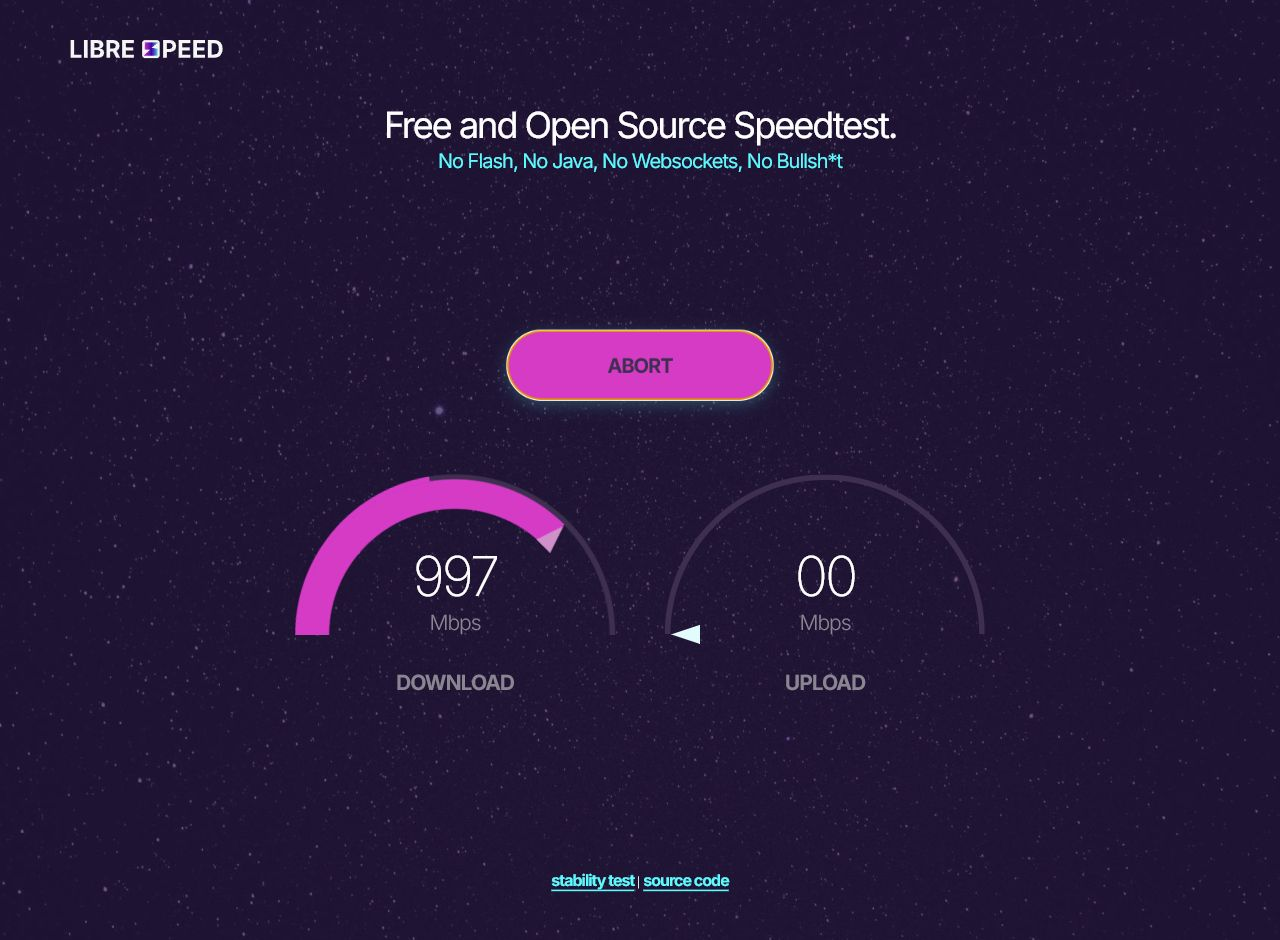
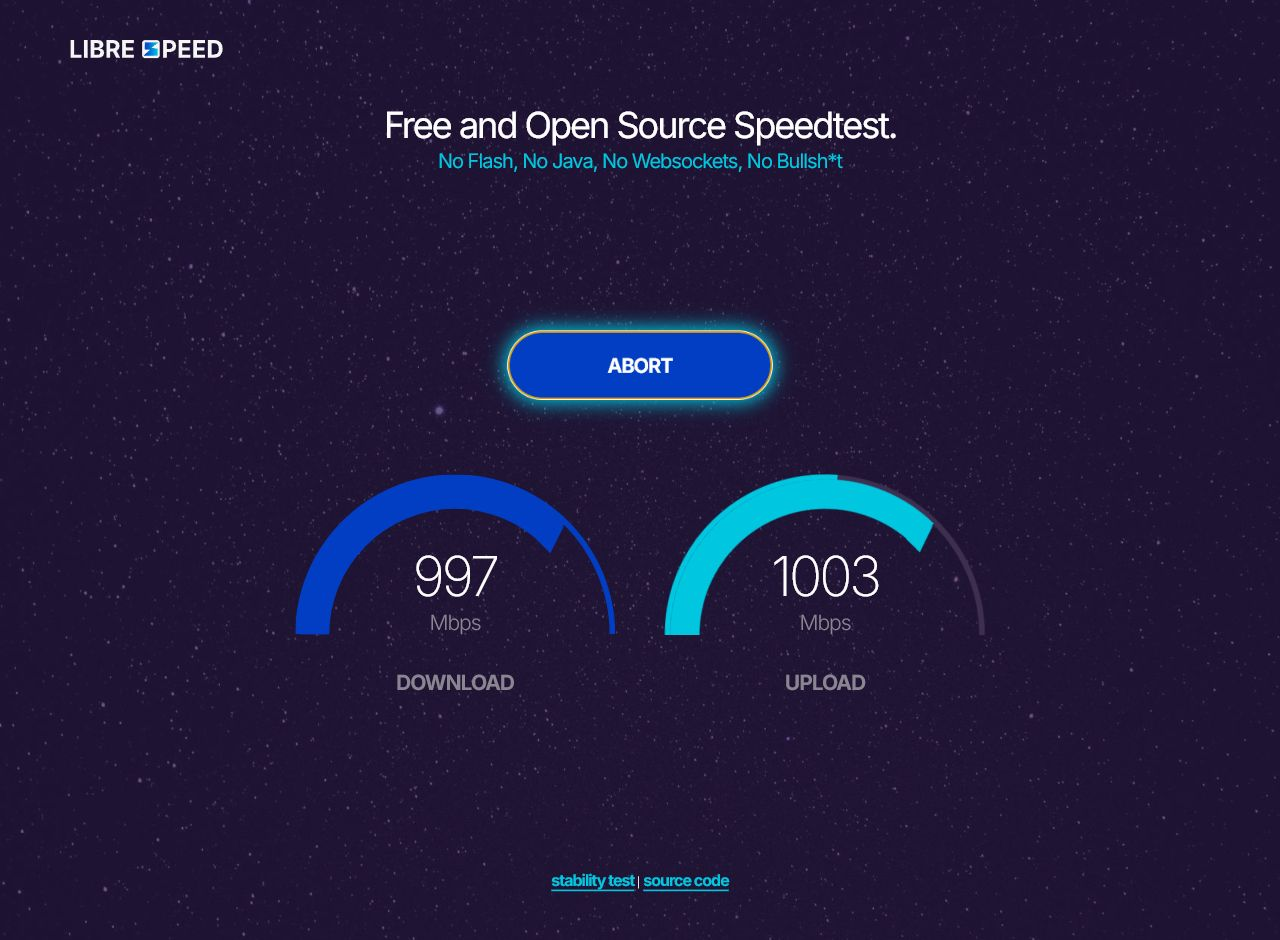
Add cooldown cleanup and accessible queue styling

diff --git a/frontend/styling/colors.css b/frontend/styling/colors.css
@@ -1,6 +1,6 @@
 :root {
-  --theme-green: #5cf9fd;
-  --theme-pink: #d63bc6;
+  --theme-green: #00c6df;
+  --theme-pink: #023ec3;
 
   --background-backup-color: #0e0720;
   --background-overlay-color: rgb(41 26 70 / 71%);
@@ -9,13 +9,16 @@
   --tagline-text-color: var(--theme-green);
   --secondary-text-color: #898591;
   --primary-text-disabled-color: #888888;
-  --secondary-text-disabled-color: #2e7d7f;
+  --secondary-text-disabled-color: #006873;
 
-  --button-text-color: #3e2f50;
+  --button-text-color: #0e0720;
+  --button-active-text-color: #ffffff;
+  --button-active-background-color: #023ec3;
+  --button-active-border-color: #00c6df;
   --button-gradient-1-color-1: #f5f5f5;
   --button-gradient-1-color-2: var(--theme-green);
   --button-gradient-1-color-3: var(--theme-pink);
-  --button-shadow-color: #5cf9fd47;
+  --button-shadow-color: #00c6df;
   --button-disabled-background-color: #a2a2a2;
 
   --server-selector-border-color: #625b6b;
@@ -25,8 +28,8 @@
 
   --gauge-background-color: #3e2f50;
   --gauge-progress-color: #726c7a;
-  --gauge-pointer-green: #e2fbfc;
-  --gauge-pointer-pink: #d091ca;
+  --gauge-pointer-green: #00c6df;
+  --gauge-pointer-pink: #023ec3;
 
   --ping-and-jitter-primary-text-color: #f5f5f5;
   --ping-and-jitter-secondary-text-color: #7b7b7b;

diff --git a/frontend/styling/button.css b/frontend/styling/button.css
@@ -58,8 +58,15 @@ button {
     transform: scale(1.03) translate3d(0, 0, 0) perspective(1px);
   }
   &.active,
+  &.waiting,
   &:active {
-    background-position: 100% 0%;
+    color: var(--button-active-text-color);
+    background: var(--button-active-background-color);
+    border: 0.2rem solid var(--button-active-border-color);
+    box-shadow: 0 0 1.8rem 0.35rem var(--button-shadow-color);
+  }
+  &.active,
+  &:active {
     animation: pulse 0.7s;
   }
 }

diff --git a/queue-client.js b/queue-client.js
@@ -19,7 +19,12 @@
       body: JSON.stringify({ action: action, token: this.token }),
     });
     const data = await response.json();
-    if (!response.ok) throw new Error(data.error || "Queue request failed");
+    if (!response.ok) {
+      const error = new Error(data.error || "Queue request failed");
+      error.status = response.status;
+      error.retryAfter = Number(response.headers.get("Retry-After")) || null;
+      throw error;
+    }
     if (data.token) this.token = data.token;
     return data;
   };

diff --git a/frontend/javascript/index.js b/frontend/javascript/index.js
@@ -136,7 +136,7 @@ async function joinQueueAndStart() {
       testState.queuePosition = null;
       testState.state = READY;
       console.error("Failed to enter speed test queue:", error);
-      alert("The speed test queue is currently unavailable. Please try again.");
+      alert(error.message || "The speed test queue is currently unavailable.");
     }
   }
 }
@@ -374,6 +374,7 @@ function startRenderingLoop() {
         : buttonTexts[testState.state];
     startButton.classList.toggle("disabled", testState.state === INITIALIZING);
     startButton.classList.toggle("active", testState.state === RUNNING);
+    startButton.classList.toggle("waiting", testState.state === WAITING);
 
     // Disable the server selector while test is running
     serverSelector.classList.toggle(

diff --git a/index-classic.html b/index-classic.html
@@ -209,7 +209,7 @@
 					await releaseQueue();
 					I("startStopBtn").className = "";
 					I("server").disabled = false;
-					I("queueStatus").textContent = "Queue unavailable. Please try again.";
+					I("queueStatus").textContent = error.message || "Queue unavailable. Please try again.";
 					return;
 				}
 				if (currentQueue.cancelled || queueClient !== currentQueue) return;

diff --git a/backend/queue_lib.php b/backend/queue_lib.php
@@ -6,6 +6,8 @@ const SPEEDTEST_QUEUE_WAITING_TTL = 30;
 const SPEEDTEST_QUEUE_MAX_WAITING = 100;
 const SPEEDTEST_QUEUE_RATE_WINDOW = 60;
 const SPEEDTEST_QUEUE_MAX_JOINS_PER_WINDOW = 5;
+const SPEEDTEST_QUEUE_COOLDOWN_SECONDS = 300;
+const SPEEDTEST_QUEUE_MAX_TRACKED_CLIENTS = 5000;
 const SPEEDTEST_QUEUE_TOKEN_HEADER = 'HTTP_X_SPEEDTEST_QUEUE_TOKEN';
 
 function speedtest_queue_state_file()
@@ -50,39 +52,28 @@ function speedtest_queue_with_lock($callback)
     try {
         rewind($handle);
         $raw = stream_get_contents($handle);
-        $state = json_decode($raw ?: '', true);
-        if (!is_array($state)) {
-            $state = [];
+        $decoded = json_decode($raw ?: '', true);
+        if (!is_array($decoded)) {
+            $decoded = [];
         }
-        $state += ['active' => null, 'waiting' => [], 'rateLimits' => [], 'secret' => null];
+        // Keep only recognized fields so malformed or obsolete data cannot
+        // accumulate indefinitely in the state file.
+        $state = [
+            'active' => is_array($decoded['active'] ?? null) ? $decoded['active'] : null,
+            'waiting' => is_array($decoded['waiting'] ?? null) ? $decoded['waiting'] : [],
+            'rateLimits' => is_array($decoded['rateLimits'] ?? null) ? $decoded['rateLimits'] : [],
+            'cooldowns' => is_array($decoded['cooldowns'] ?? null) ? $decoded['cooldowns'] : [],
+            'secret' => is_string($decoded['secret'] ?? null) ? $decoded['secret'] : null,
+        ];
         if (!is_string($state['secret']) || strlen($state['secret']) < 32) {
             $state['secret'] = bin2hex(random_bytes(32));
         }
 
         $now = time();
-        if (
-            !empty($state['active'])
-            && (
-                ($state['active']['expiresAt'] ?? 0) <= $now
-                || ($state['active']['maxExpiresAt'] ?? 0) <= $now
-            )
-        ) {
-            $state['active'] = null;
-        }
-        $state['waiting'] = array_values(array_filter(
-            $state['waiting'],
-            function ($entry) use ($now) {
-                return ($entry['expiresAt'] ?? 0) > $now;
-            }
-        ));
-        $state['rateLimits'] = array_filter(
-            $state['rateLimits'],
-            function ($entry) use ($now) {
-                return ($entry['windowStartedAt'] ?? 0) + SPEEDTEST_QUEUE_RATE_WINDOW > $now;
-            }
-        );
+        speedtest_queue_collect_garbage($state, $now);
 
         $result = $callback($state, $now);
+        speedtest_queue_collect_garbage($state, $now);
 
         rewind($handle);
         ftruncate($handle, 0);
@@ -98,12 +89,88 @@ function speedtest_queue_with_lock($callback)
     }
 }
 
+function speedtest_queue_apply_cooldown(&$state, $clientKey, $now)
+{
+    if (is_string($clientKey) && $clientKey !== '') {
+        $state['cooldowns'][$clientKey] = $now + SPEEDTEST_QUEUE_COOLDOWN_SECONDS;
+    }
+}
+
+function speedtest_queue_trim_map(&$entries, $timestampField)
+{
+    if (count($entries) <= SPEEDTEST_QUEUE_MAX_TRACKED_CLIENTS) {
+        return;
+    }
+    uasort($entries, function ($left, $right) use ($timestampField) {
+        return ($right[$timestampField] ?? 0) <=> ($left[$timestampField] ?? 0);
+    });
+    $entries = array_slice($entries, 0, SPEEDTEST_QUEUE_MAX_TRACKED_CLIENTS, true);
+}
+
+function speedtest_queue_collect_garbage(&$state, $now)
+{
+    if (
+        !empty($state['active'])
+        && !preg_match('/^[a-f0-9]{48}$/', (string) ($state['active']['token'] ?? ''))
+    ) {
+        $state['active'] = null;
+    }
+    if (
+        !empty($state['active'])
+        && (
+            ($state['active']['expiresAt'] ?? 0) <= $now
+            || ($state['active']['maxExpiresAt'] ?? 0) <= $now
+        )
+    ) {
+        speedtest_queue_apply_cooldown($state, $state['active']['clientKey'] ?? '', $now);
+        $state['active'] = null;
+    }
+
+    $state['waiting'] = array_values(array_filter(
+        is_array($state['waiting']) ? $state['waiting'] : [],
+        function ($entry) use ($now) {
+            return is_array($entry)
+                && preg_match('/^[a-f0-9]{48}$/', (string) ($entry['token'] ?? ''))
+                && ($entry['expiresAt'] ?? 0) > $now;
+        }
+    ));
+    $state['rateLimits'] = array_filter(
+        is_array($state['rateLimits']) ? $state['rateLimits'] : [],
+        function ($entry) use ($now) {
+            return is_array($entry)
+                && ($entry['windowStartedAt'] ?? 0) + SPEEDTEST_QUEUE_RATE_WINDOW > $now;
+        }
+    );
+    $state['cooldowns'] = array_filter(
+        is_array($state['cooldowns']) ? $state['cooldowns'] : [],
+        function ($expiresAt) use ($now) {
+            return is_numeric($expiresAt) && (int) $expiresAt > $now;
+        }
+    );
+
+    speedtest_queue_trim_map($state['rateLimits'], 'windowStartedAt');
+    if (count($state['cooldowns']) > SPEEDTEST_QUEUE_MAX_TRACKED_CLIENTS) {
+        arsort($state['cooldowns'], SORT_NUMERIC);
+        $state['cooldowns'] = array_slice(
+            $state['cooldowns'],
+            0,
+            SPEEDTEST_QUEUE_MAX_TRACKED_CLIENTS,
+            true
+        );
+    }
+}
+
 function speedtest_queue_promote(&$state, $now)
 {
-    if (empty($state['active']) && !empty($state['waiting'])) {
+    while (empty($state['active']) && !empty($state['waiting'])) {
         $next = array_shift($state['waiting']);
+        $clientKey = $next['clientKey'] ?? '';
+        if (($state['cooldowns'][$clientKey] ?? 0) > $now) {
+            continue;
+        }
         $state['active'] = [
             'token' => $next['token'],
+            'clientKey' => $clientKey,
             'expiresAt' => $now + SPEEDTEST_QUEUE_ACTIVE_TTL,
             'maxExpiresAt' => $now + SPEEDTEST_QUEUE_ACTIVE_MAX_SECONDS,
         ];
@@ -132,6 +199,34 @@ function speedtest_queue_rate_limit_join(&$state, $now)
     $entry['joins']++;
     $state['rateLimits'][$key] = $entry;
     return true;
+}
+
+function speedtest_queue_cooldown_allows_join($state, $clientKey, $now)
+{
+    $expiresAt = (int) ($state['cooldowns'][$clientKey] ?? 0);
+    if ($expiresAt <= $now) {
+        return true;
+    }
+    $retryAfter = max(1, $expiresAt - $now);
+    header('Retry-After: ' . $retryAfter);
+    http_response_code(429);
+    return false;
+}
+
+function speedtest_queue_client_is_present($state, $clientKey)
+{
+    if (
+        !empty($state['active'])
+        && hash_equals((string) ($state['active']['clientKey'] ?? ''), $clientKey)
+    ) {
+        return true;
+    }
+    foreach ($state['waiting'] as $entry) {
+        if (hash_equals((string) ($entry['clientKey'] ?? ''), $clientKey)) {
+            return true;
+        }
+    }
+    return false;
 }
 
 function speedtest_queue_allowed_origins()

diff --git a/backend/queue.php b/backend/queue.php
@@ -20,6 +20,14 @@ $token = is_array($input) && isset($input['token']) ? (string) $input['token'] :
 try {
     $response = speedtest_queue_with_lock(function (&$state, $now) use ($action, $token) {
         if ($action === 'join') {
+            $clientKey = speedtest_queue_client_key($state);
+            if (!speedtest_queue_cooldown_allows_join($state, $clientKey, $now)) {
+                return ['error' => 'Please wait five minutes before running another speed test'];
+            }
+            if (speedtest_queue_client_is_present($state, $clientKey)) {
+                http_response_code(409);
+                return ['error' => 'This client is already queued or running a speed test'];
+            }
             if (!speedtest_queue_rate_limit_join($state, $now)) {
                 return ['error' => 'Too many queue joins. Please wait before trying again'];
             }
@@ -30,6 +38,7 @@ try {
             $token = bin2hex(random_bytes(24));
             $state['waiting'][] = [
                 'token' => $token,
+                'clientKey' => $clientKey,
                 'expiresAt' => $now + SPEEDTEST_QUEUE_WAITING_TTL,
             ];
         } elseif (!in_array($action, ['status', 'heartbeat', 'leave', 'release'], true)) {
@@ -42,6 +51,11 @@ try {
 
         if ($action === 'leave' || $action === 'release') {
             if (!empty($state['active']) && hash_equals($state['active']['token'], $token)) {
+                speedtest_queue_apply_cooldown(
+                    $state,
+                    $state['active']['clientKey'] ?? '',
+                    $now
+                );
                 $state['active'] = null;
             }
             $state['waiting'] = array_values(array_filter(

diff --git a/README.md b/README.md
@@ -6,7 +6,9 @@
 
 This build uses a server-side FIFO queue so only one browser can run a bandwidth
 test at a time. Waiting clients poll for their position, active clients renew a
-45-second lease, and abandoned leases expire automatically.
+45-second lease, and abandoned leases expire automatically. After a test ends
+or its active lease expires, that client IP must wait five minutes before
+joining again.
 
 The queue state is stored in the system temporary directory by default. Set
 `SPEEDTEST_QUEUE_FILE` to an absolute path on shared storage when multiple
@@ -16,7 +18,14 @@ Queue leases are random bearer tokens held only in browser memory and sent in
 the `X-Speedtest-Queue-Token` header. They are not based on IP addresses or
 cookies and are not placed in request URLs. The backend stores no names, raw IP
 addresses, user agents, or speed-test results. Short-lived keyed hashes of
-client IP addresses are used only to enforce join rate limits.
+client IP addresses are used only to enforce join rate limits and the
+five-minute cooldown.
+
+Queue garbage collection runs during every queue transaction. Expired waiting
+entries, rate-limit windows, and cooldown records are removed automatically,
+and tracked-client maps are capped to prevent the state file from growing
+without bound. Download and upload responses also use no-store cache headers
+and generate test data in memory rather than persisting it.
 
 For multiple-point deployments, set `SPEEDTEST_ALLOWED_ORIGINS` on each backend
 to a comma-separated list of exact frontend origins, for example